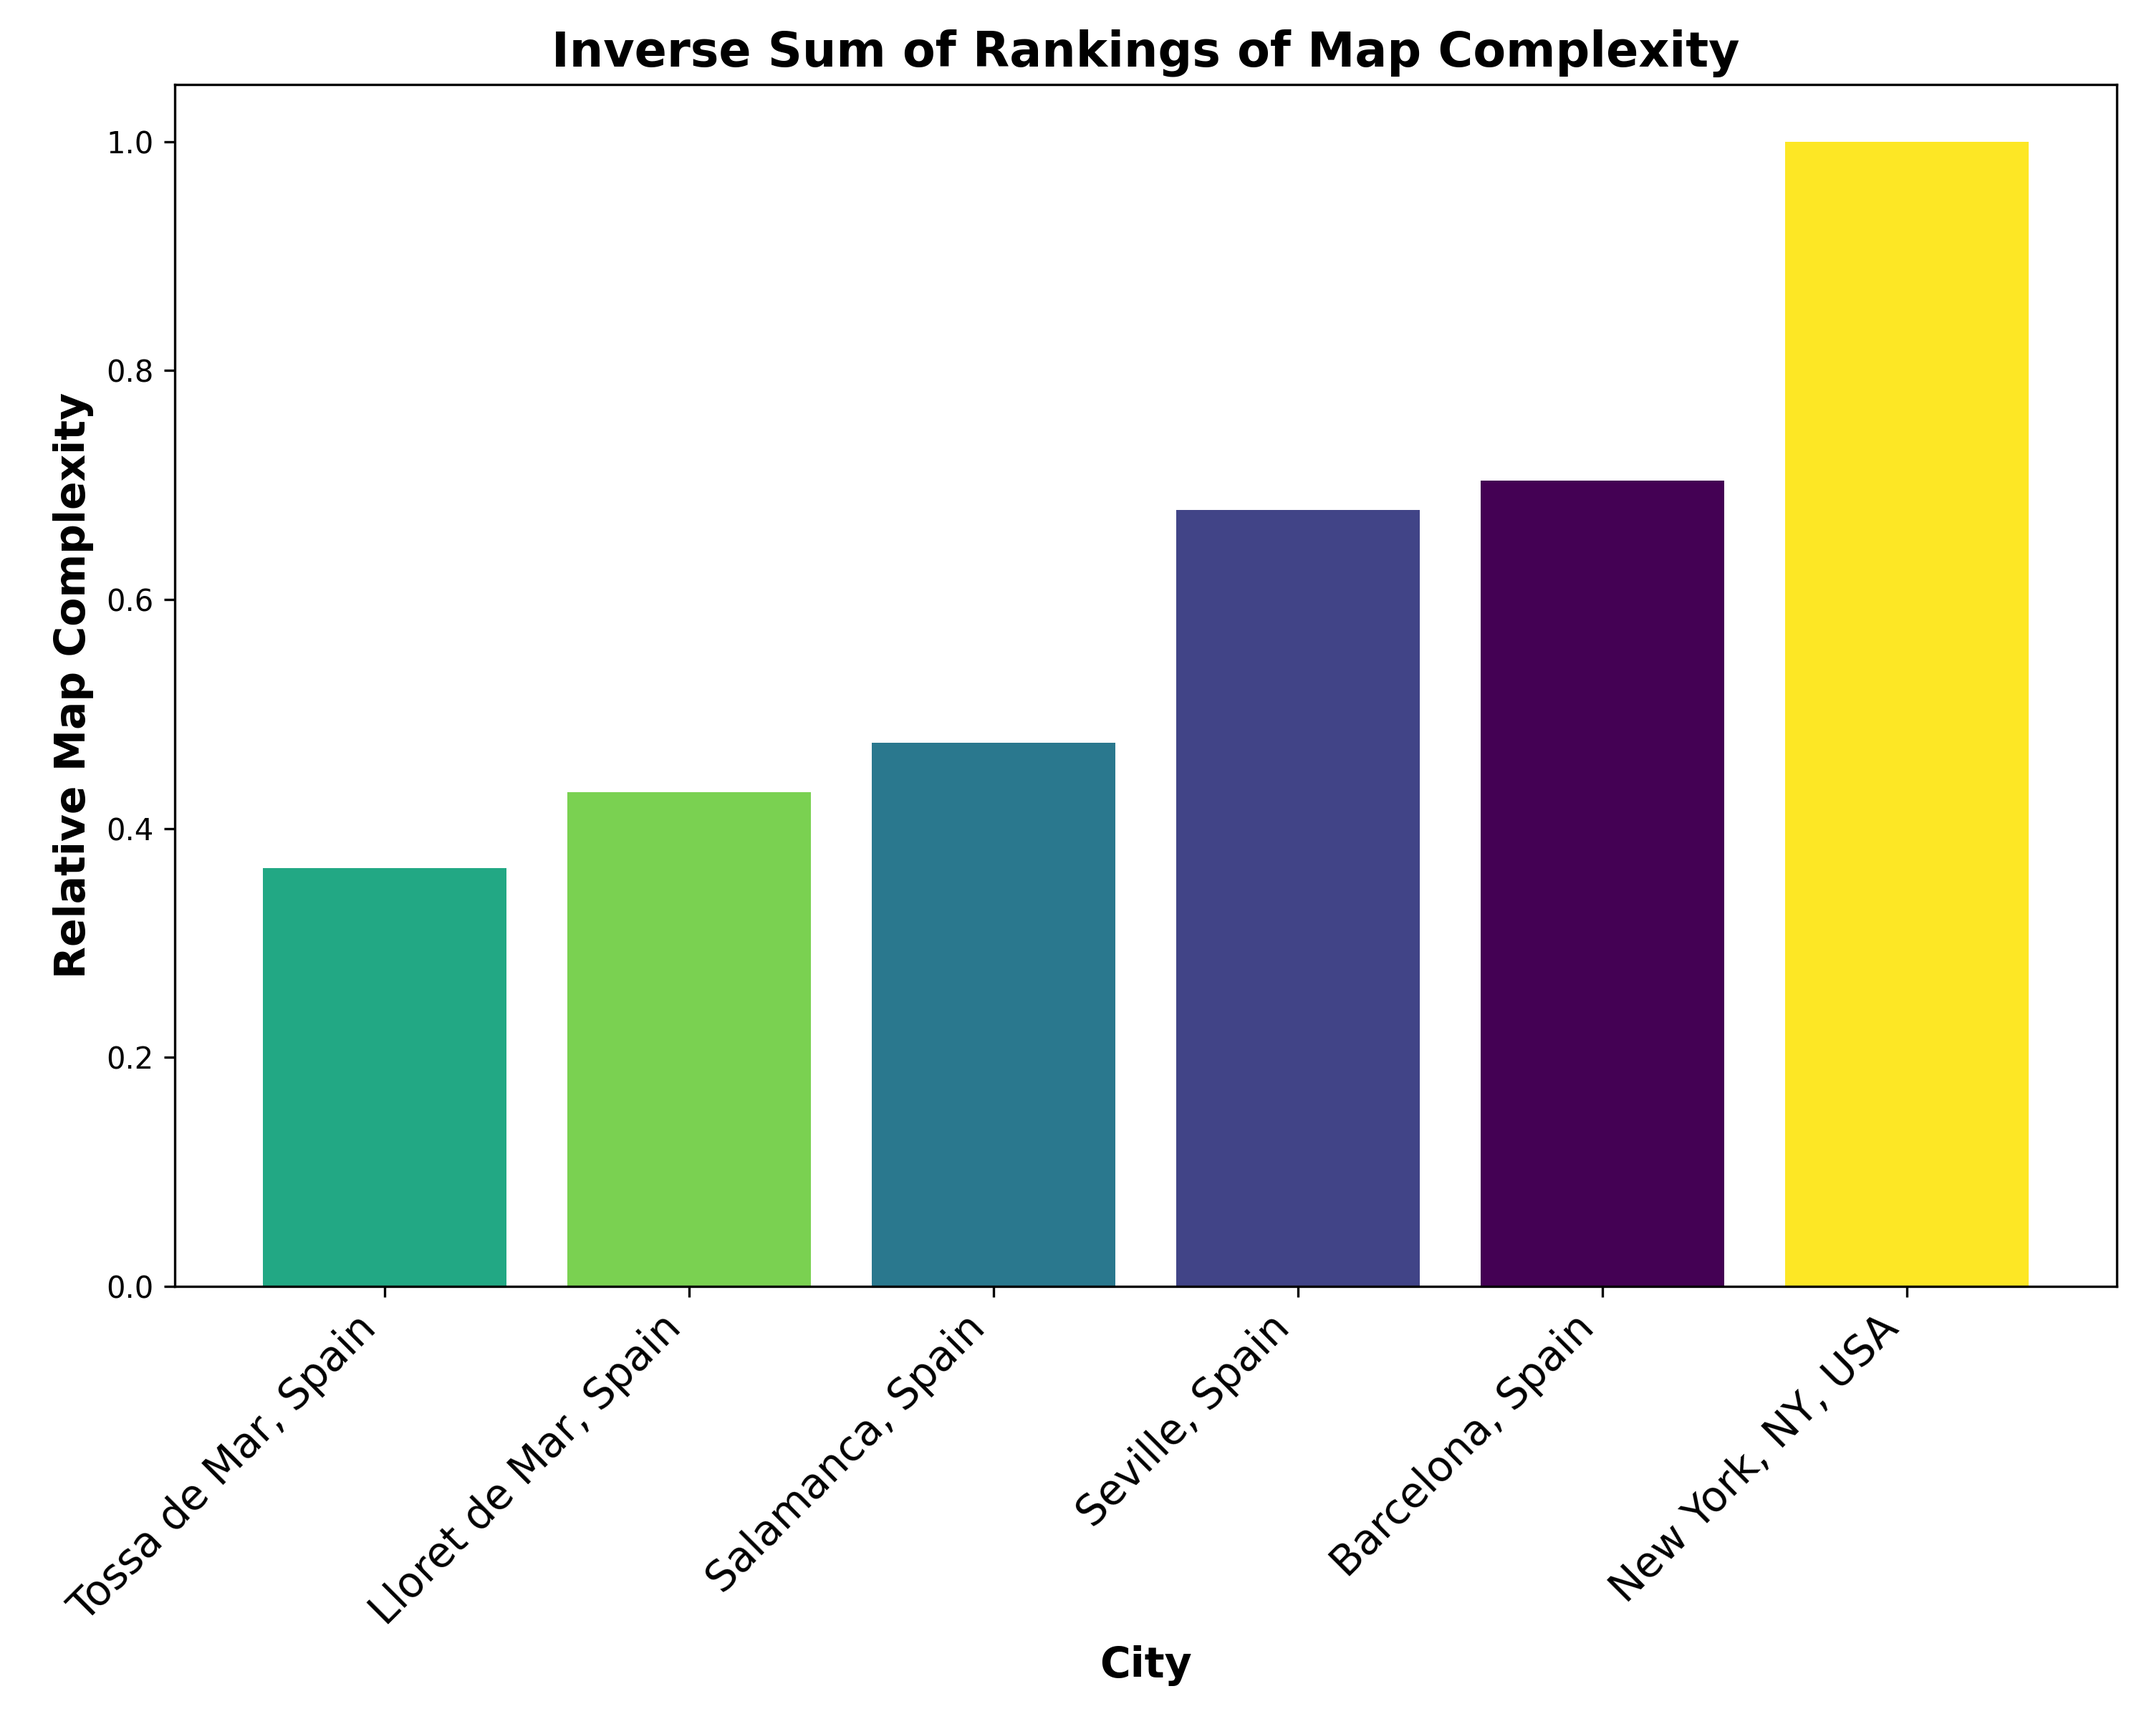
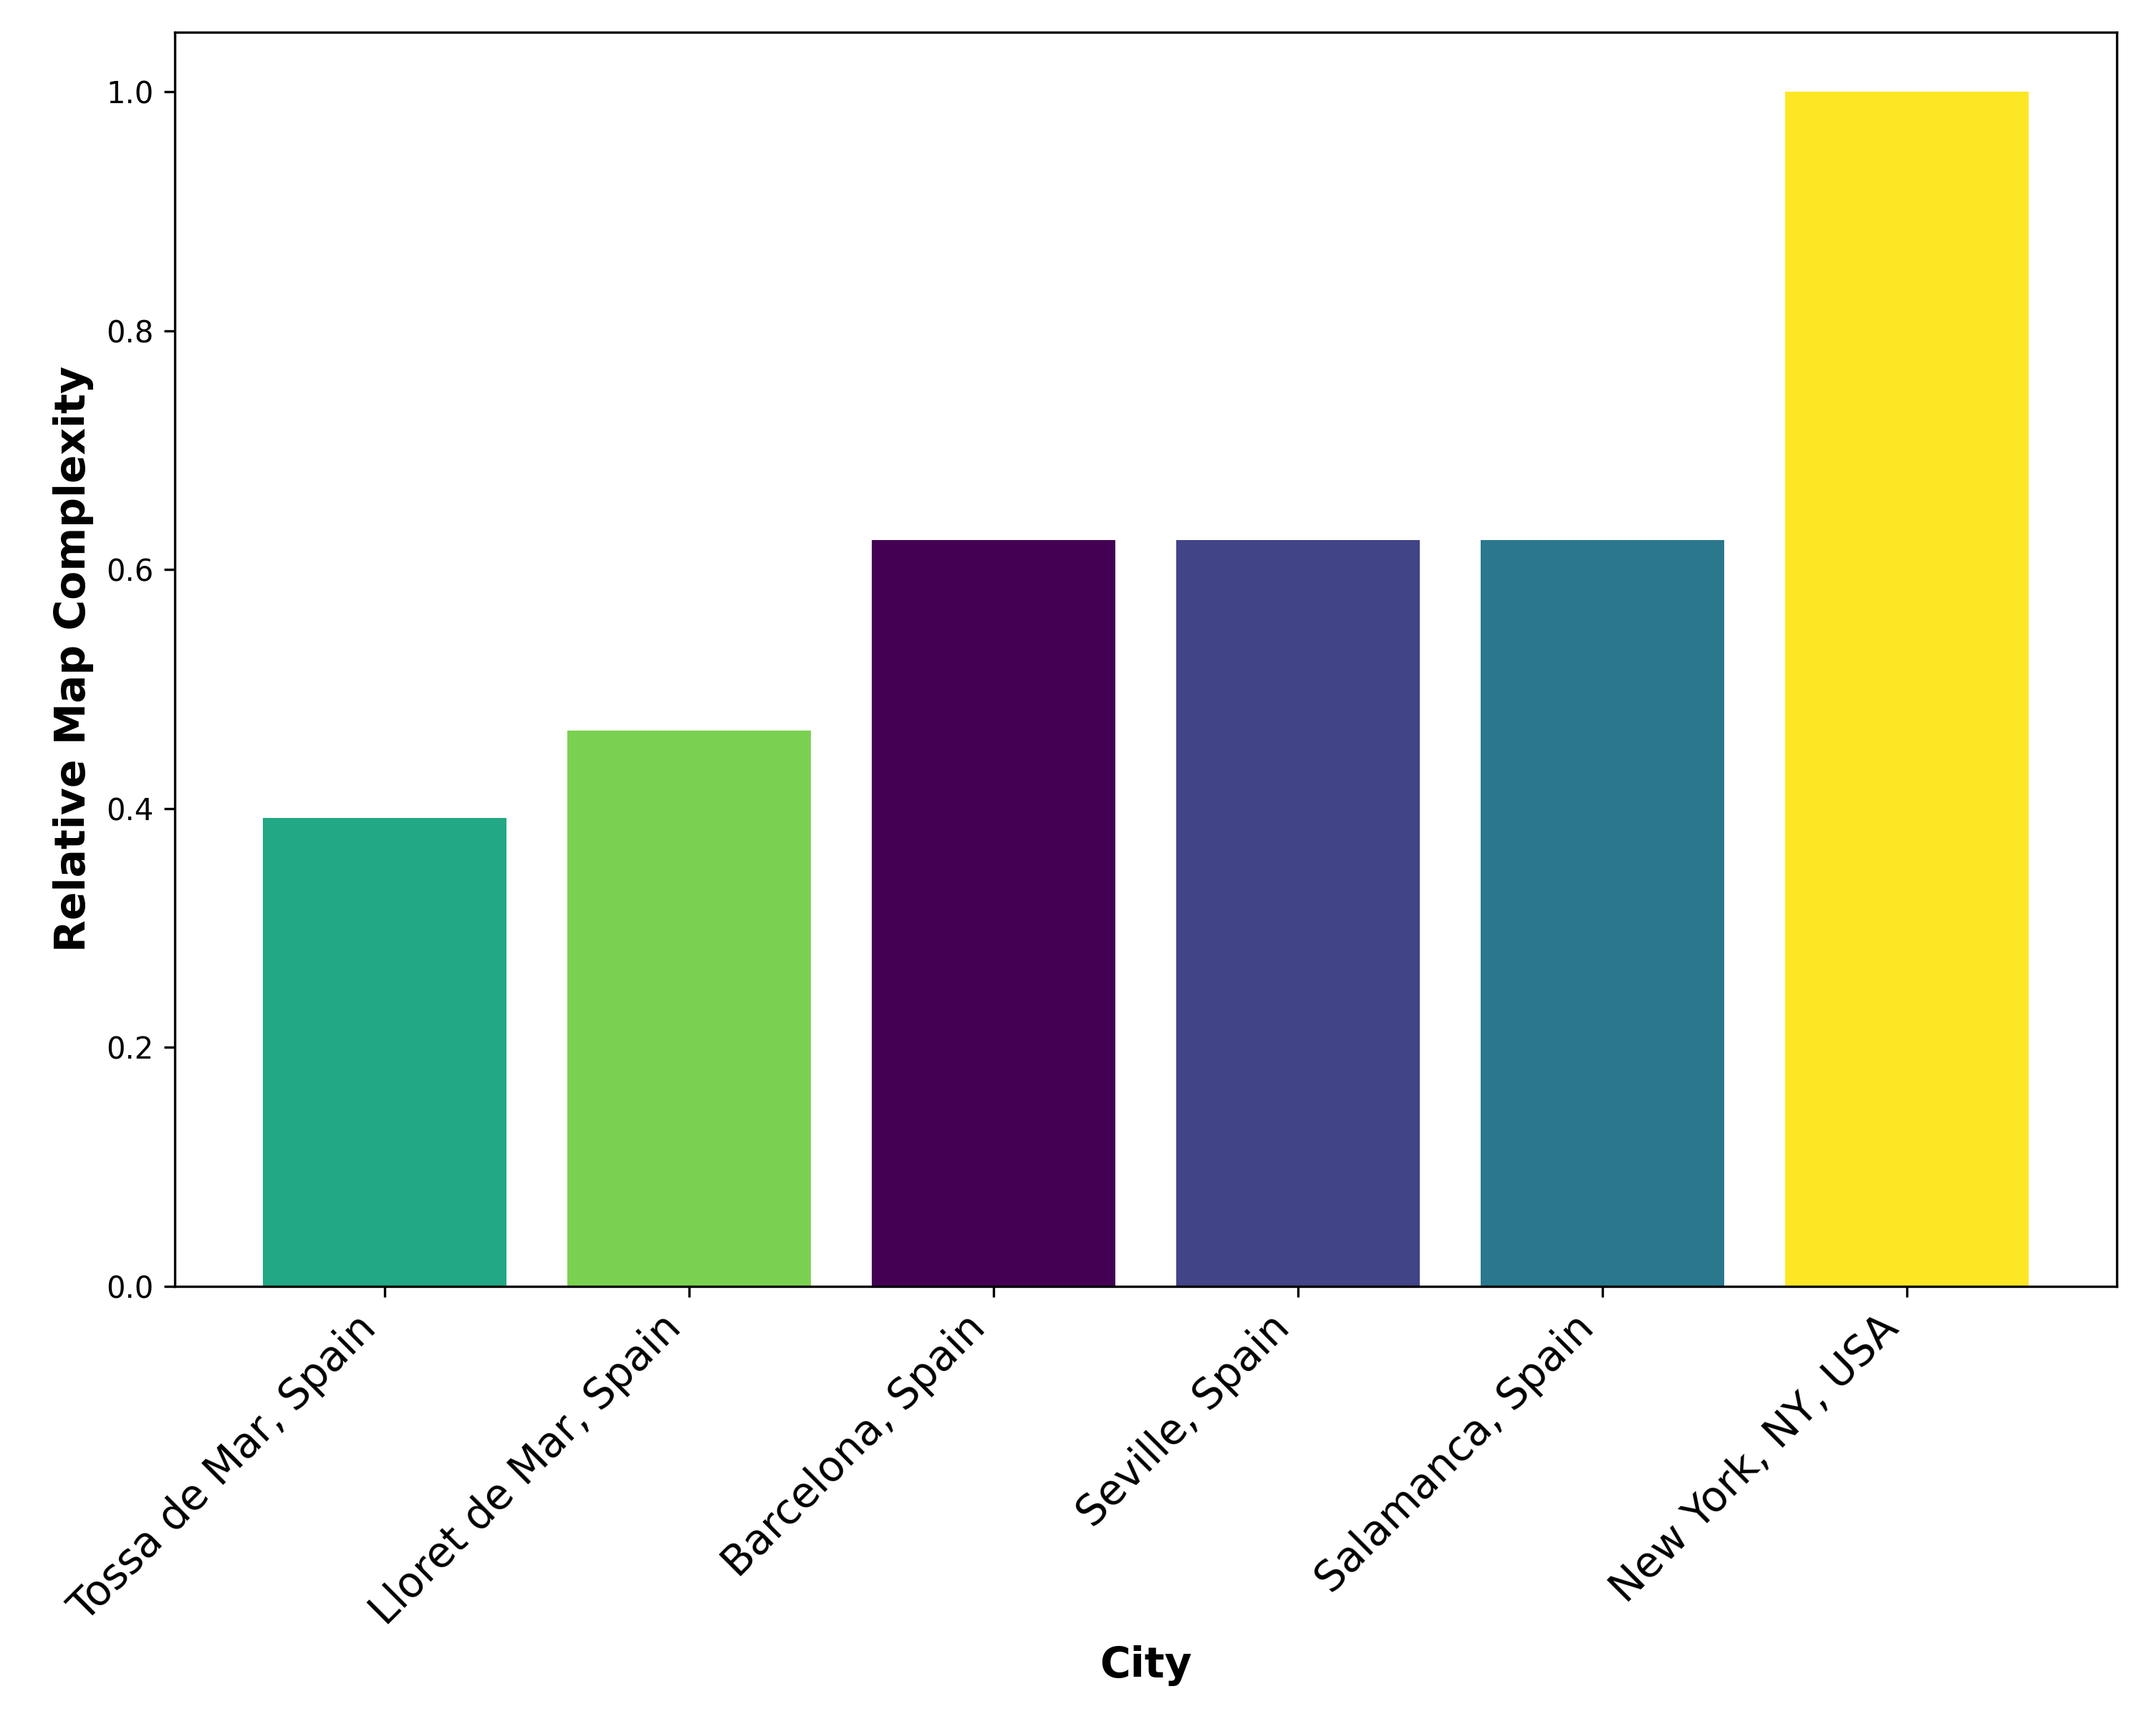
update map_analysis to make figures landscape

diff --git a/practical/src/map-analysis.py b/practical/src/map-analysis.py
@@ -95,16 +95,14 @@ columns = [
 colors = plt.cm.viridis(np.linspace(0, 1, len(df)))
 color_dict = dict(zip(df.index, colors))
 
-fig, axs = plt.subplots(len(columns) // 2, 2, figsize=(12, 20))
+fig, axs = plt.subplots(2, len(columns) // 2, figsize=(20, 10))
 for ax, col in zip(axs.flatten(), columns):
     sorted_df = df.sort_values(by=col)
     ax.bar(sorted_df.index, sorted_df[col], color=[color_dict[i] for i in sorted_df.index])
     ax.set_title(col)
     ax.set_xticks(sorted_df.index)
     ax.set_xticklabels(sorted_df.index, rotation=45)
-fig.suptitle("Map Statistics", fontsize=20)
 plt.tight_layout()
-fig.subplots_adjust(top=0.95)
 plt.savefig(os.path.join(FIGURES_DIR, "map_complexity_statistics.png"), dpi=300)
 plt.show()
 
@@ -126,7 +124,6 @@ ax.bar(
     inverse_rank_sums.values,
     color=[color_dict[i] for i in inverse_rank_sums.index],
 )
-ax.set_title("Inverse Sum of Rankings of Map Complexity", fontsize=16, fontweight="bold")
 ax.set_xlabel("City", fontsize=14, fontweight="bold")
 ax.set_xticks(range(len(inverse_rank_sums)))
 ax.set_xticklabels(inverse_rank_sums.index, rotation=45, ha="right", fontsize=14)
